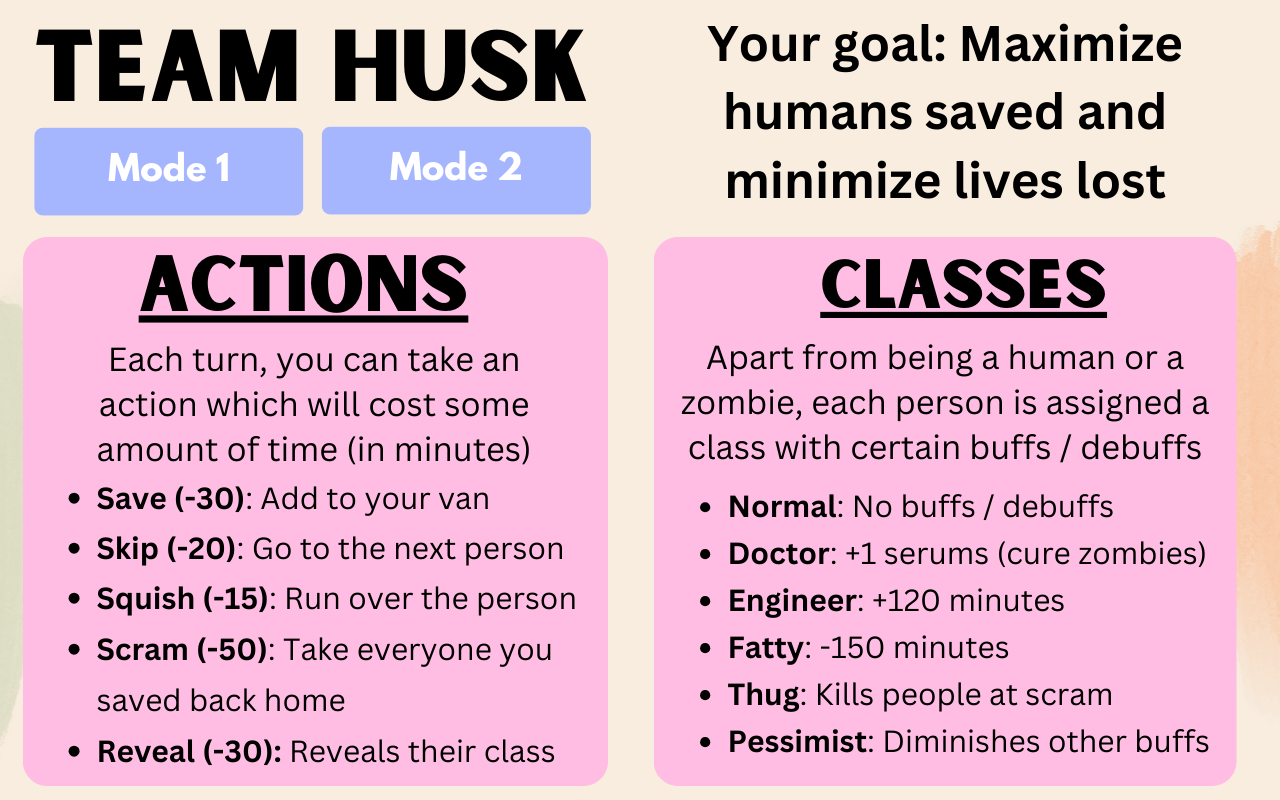
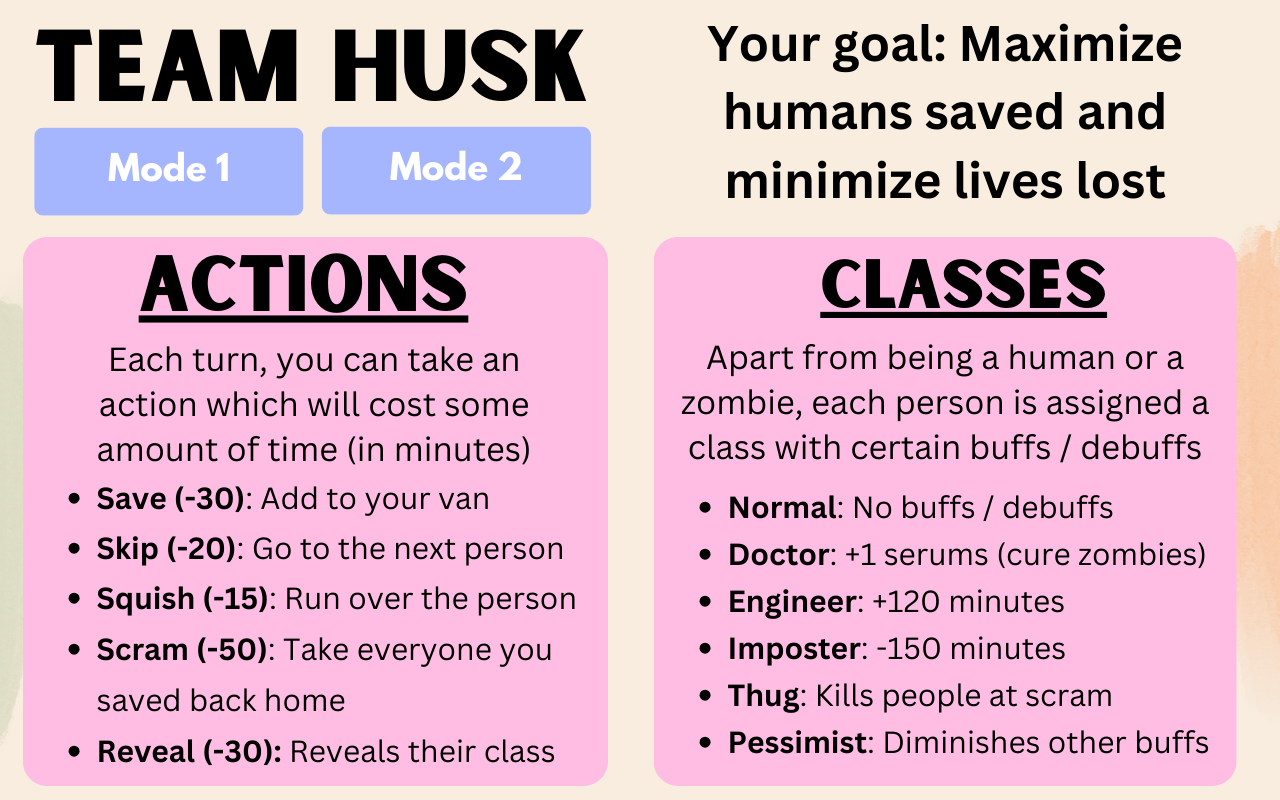
Updated UI
Changed Fatty to Imposter

Changed region(s): [[0.5625, 0.6875, 0.9375, 0.9375], [0.5625, 0.625, 0.875, 0.6562]]

diff --git a/ui_elements/probability.py b/ui_elements/probability.py
@@ -72,7 +72,7 @@ class Probability(object):
             panel.place(x=145, y=103 + i)
             self.empties.append(panel)
 
-            self.tk_fills.append(ImageTk.PhotoImage(self.fill.resize((math.floor(prob), 16), Image.LANCZOS)))
+            self.tk_fills.append(ImageTk.PhotoImage(self.fill.resize((math.floor(prob) + 1, 16), Image.LANCZOS)))
             filling = tk.Label(self.canvas, image=self.tk_fills[-1])
             filling.place(x=145, y=103 + i)
             self.fills.append(filling)
